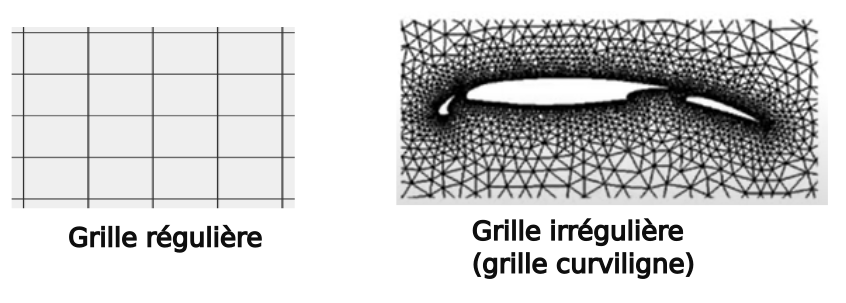
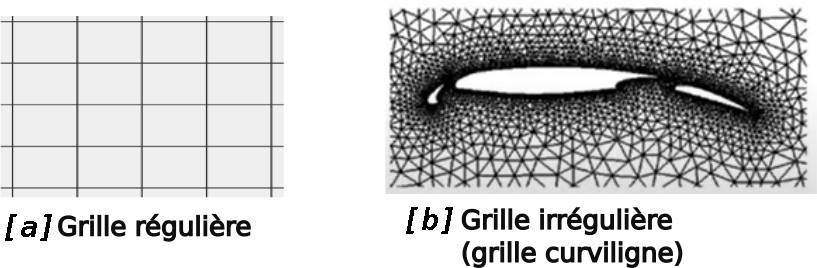
Correction et merge du 16-08-2023

diff --git a/Mon rapport Tex/main.tex b/Mon rapport Tex/main.tex
@@ -37,21 +37,6 @@
 		[1.5cm]
 		\begin{center}
 			\textsc{\large Rapport de stage \\[.5cm]
-<<<<<<< HEAD
-                Présenté par \\
-                [.5cm]
-                Jonathan NEJMANN \\
-                Promotion (2022-2023)\\
-                [1.0cm]}
-            \begin{minipage}{0.85\textwidth}
-               \begin{center}
-                  \begin{spacing}{1.5}
-                     \textbf{\Large Mise en place d'une configuration initiale pour le code de calcul hydro-sédimentaire CROCO~: une nouvelle approche grâce à QGIS}\\
-                  \end{spacing}
-               \end{center}
-            \end{minipage}
-            \vspace{1.0cm}
-=======
 				Présenté par \\
 				[.5cm]
 				Jonathan NEJMANN \\
@@ -65,7 +50,6 @@
 				\end{center}
 			\end{minipage}
 			\vspace{1.0cm}
->>>>>>> f22b5ddd57393f853883c03814a75564952bd3c8
 			\newline
 			%\vspace{1.5cm}
 			\includegraphics[width=0.2\textwidth]{./IMAGES/QCROCO.png}\\
@@ -117,107 +101,20 @@
 			\textsc{\large Soutenu le \textbf{06/09/2023}}\\
 			\textsc{\large Devant le jury composé de}\\
 			[0.25cm]
-<<<<<<< HEAD
-            \textsc{\normalsize P.BAILLY DU BOIS,  	Professeur des Universités}\\
-            \vspace{-0.5em}
-            \textsc{\normalsize Y.MEAR, Professeur des Universités}\\
-
-		\end{center}
-		%-----------------------------------------------------
-	\end{titlepage}
-
-
-\pagenumbering{roman}
-\newpage
-\thispagestyle{empty}
-\null
-\newpage
-
-%-----------------------------------------------------
-\setlength{\headheight}{3cm}
-\vspace*{0.5cm}
-\setcounter{page}{1}
-\section*{Remerciement}
-\thispagestyle{plain}
-%\addcontentsline{toc}{section}{\numberline{}Remerciement}
-\input{Remerciement/remerciement}
-\cleardoublepage
-%------------------------------------------
-
-%table of content
-
-\tableofcontents
-\thispagestyle{empty}
-\cleardoublepage
-%table des figures
-\thispagestyle{plain}
-\listoffigures
-%\addcontentsline{toc}{section}{\numberline{}Table des figures}
-\cleardoublepage
-
-
-%INIT
-\pagenumbering{arabic}
-\setcounter{page}{1}
-\pagestyle{fancy}
-%----------------------------------------------------
-\vspace*{1cm}
-\section{Introduction}\label{sec:intro}
-\vspace*{0.5cm}
-\input{Introduction/introduction}
-%----------------------------------------------------
-\newpage
-\section{Présentation de l'entreprise}
-\input{chapitre/prsentreprise}
-
-%----------------------------------------------------
-\newpage
-\section{Problématique}
-\input{chapitre/Problem}
-
-%----------------------------------------------------
-\newpage
-\section{Implémentation}
-\input{chapitre/Implementation}
-
-%----------------------------------------------------
-\newpage
-\section{Résultats}
-
-%----------------------------------------------------
-\newpage
-\section{Perspectives}
-
-%----------------------------------------------------
-\newpage
-\section{Conclusion}
-
-%----------------------------------------------------
-\newpage
-
-\section{Bibliographie}
-\bibliographystyle{plainnat}
-\bibliography{./Biblio/STAGE}
-
-%----------------------------------------------------
-\newpage
-
-=======
 			\textsc{\normalsize P.BAILLY DU BOIS,  	Professeur des Universités}\\
 			\vspace{-0.5em}
 			\textsc{\normalsize Y.MEAR, Professeur des Universités}\\
-			
+
 		\end{center}
 		%-----------------------------------------------------
 	\end{titlepage}
-	
-	
+
 	\pagenumbering{roman}
 	\newpage
 	\thispagestyle{empty}
 	\null
 	\newpage
-	
+
 	%-----------------------------------------------------
 	\setlength{\headheight}{3cm}
 	\vspace*{0.5cm}
@@ -228,9 +125,9 @@
 	\input{Remerciement/remerciement}
 	\cleardoublepage
 	%------------------------------------------
-	
+
 	%table of content
-	
+
 	\tableofcontents
 	\thispagestyle{empty}
 	\cleardoublepage
@@ -239,8 +136,7 @@
 	\listoffigures
 	%\addcontentsline{toc}{section}{\numberline{}Table des figures}
 	\cleardoublepage
-	
-	
+
 	%INIT
 	\pagenumbering{arabic}
 	\setcounter{page}{1}
@@ -254,38 +150,37 @@
 	\newpage
 	\section{Présentation de l'entreprise}
 	\input{chapitre/prsentreprise}
-	
+
 	%----------------------------------------------------
 	\newpage
 	\section{Problématique}
 	\input{chapitre/Problem}
-	
+
 	%----------------------------------------------------
 	\newpage
 	\section{Implémentation}
 	\input{chapitre/Implementation}
-	
+
 	%----------------------------------------------------
 	\newpage
 	\section{Résultats}
-	
+
 	%----------------------------------------------------
 	\newpage
 	\section{Perspectives}
-	
+
 	%----------------------------------------------------
 	\newpage
 	\section{Conclusion}
-	
+
 	%----------------------------------------------------
 	\newpage
-	
+
 	\section{Bibliographie}
 	\bibliographystyle{plainnat}
 	\bibliography{./Biblio/STAGE}
-	
+
 	%----------------------------------------------------
 	\newpage
-	
->>>>>>> f22b5ddd57393f853883c03814a75564952bd3c8
+
 \end{document}

diff --git a/Mon rapport Tex/chapitre/Implementation.tex b/Mon rapport Tex/chapitre/Implementation.tex
@@ -32,9 +32,9 @@ Je liste ici les différentes sources auprès desquelles je me suis inspiré pou
 
 CROCO-Tool est une des sources d'information les plus précieuse que j'ai utilisé au cours de cette phase initiale (\cite{crocotool2007}). Cette boîte d'outils, spécialement conçu pour le modèle CROCO, correspond à un ensemble de scripts écrit en langage Matlab. CROCO-Tool offre une riche documentation et des exemples qui m'ont aidé à comprendre les traitements et la mise en forme des données nécessaires. La mise en \oe{uvre} des outils de CROCO-Tool a nécessité bien entendu l'installation et l'utilisation du logiciel Matlab. Cela a permis de visualiser, manipuler les données, tester différents paramètres et valider les fichiers d'entrée générés. L'utilisation de Matlab a été aussi pour moi une autre découverte. J'ai du passer un temps non négligeable à son apprentissage, tout du moins, pour permettre l'exécution des scripts qui me concernaient. Une difficulté technique supplémentaire a résidé dans le paramétrage nécessaire de Matlab spécifique à chaque plate-forme d'exécution (Windows, MacOSX ou Linux).\\
 
-Les forums de discussions en ligne dédiés au modèle CROCO et à la modélisation océanographique en général, ont été une mine d'or d'informations (\cite{croco_forum}). Les discussions entre les utilisateurs expérimentés, les développeurs et les novices m'ont offert des perspectives variées, des solutions à des problèmes courants et des astuces pour optimiser les simulations. Bien que très riche, cette source d'information est très consommatrice en temps, d'une part dans la recherche des bons thèmes et termes, mais aussi d'autre part dans la nécessaire adaptation des solutions proposées (lorsqu'elles existent) au cas qui m'intéressait.\\
+Les forums de discussions en ligne dédiés au modèle CROCO et à la modélisation océanographique en général, ont été une mine d'or d'informations (\cite{croco_forum}). Les discussions entre les utilisateurs expérimentés, les développeurs et les novices m'ont offert des perspectives variées, des solutions à des problèmes courants et des astuces pour optimiser les simulations. Bien que très riche, cette source d'information est très consommatrice en temps, d'une part dans la recherche des bons thèmes et termes, mais aussi d'autre part dans la nécessaire adaptation des solutions proposées (lorsqu'elles existent) au cas qui m'intéressait. (\textcolor{red}{Il faut mettre quelques refs des sites, forums etc., visités})\\
 
-Les thèses et publications sont les sources d'informations classiques et principale dans le domaine scientifique. Plusieurs thèses et publications académiques se sont avérées essentielles pour approfondir ma compréhension du modèle CROCO et de ses applications. Ces documents m'ont fourni des précisions théoriques sur le fonctionnement de fond de certains scripts particuliers, ainsi que des détails techniques, des études de cas et des retours d'expérience qui ont enrichi ma perspective et m'ont guidé dans des choix d'implémentation.\\
+Les thèses et publications sont les sources d'informations classiques et principales dans le domaine scientifique. Plusieurs thèses et publications académiques se sont avérées essentielles pour approfondir ma compréhension du modèle CROCO et de ses applications. Ces documents m'ont fourni des précisions théoriques sur le fonctionnement de fond de certains scripts particuliers, ainsi que des détails techniques, des études de cas et des retours d'expérience qui ont enrichi ma perspective et m'ont guidé dans des choix d'implémentation. (\textcolor{red}{Comme dans ce paragraphe tu dis que tu as utilises des theses et publications, il faut que tu en fasses la liste, càd donner les citations biblios :)})\\
 
 Les autres ressources sollicitées l'ont été pour l'essentiel sur Internet. A ce titre, le réseau de réseau est une mine presque abyssale d'information avec surtout l'avantage de la mettre à disposition sur une large gamme de format (audio, vidéo, texte, graphiques, etc.). J'ai ainsi pu consulté des tutoriels en ligne, des webinaires, et des ateliers spécifiques(\cite{croco_video}). Chaque ressource a contribué à élargir mon horizon et à renforcer mes compétences pour la phase d'implémentation qui allait suivre. La encore, cette pratique est très consommatrice de temps et réclame la mise en place d'une organisation particulière pour rassembler, analyser et résumer toutes ces informations disponibles d'autan de manière différente.
 
